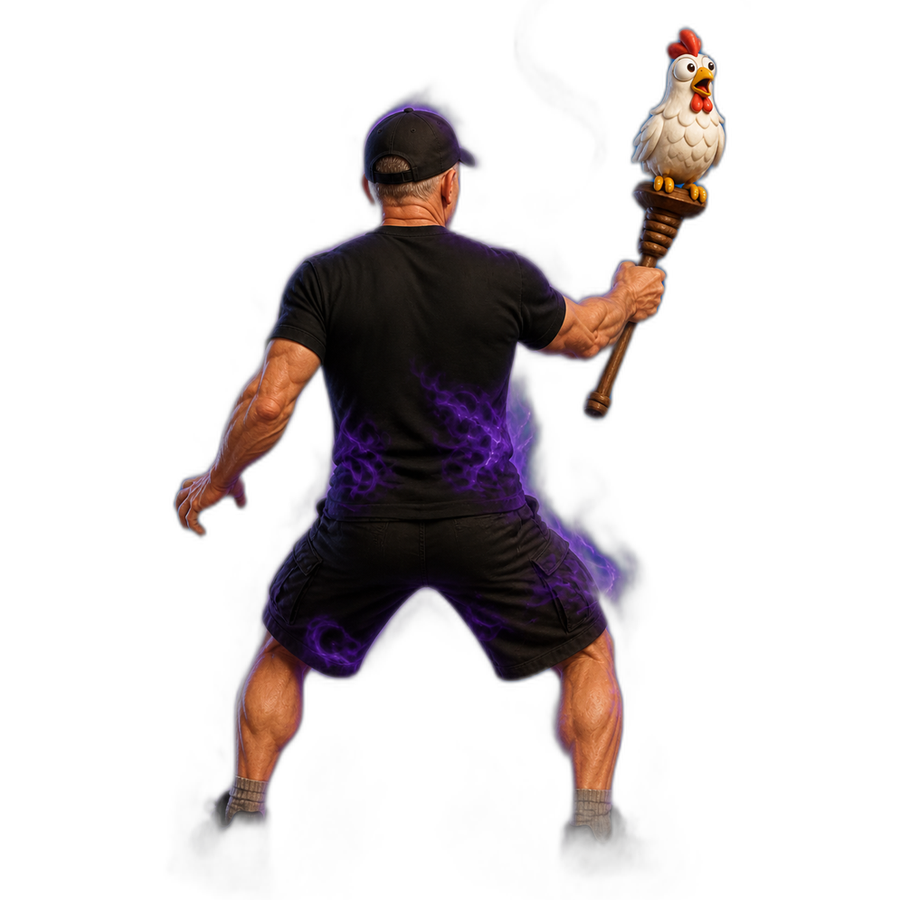
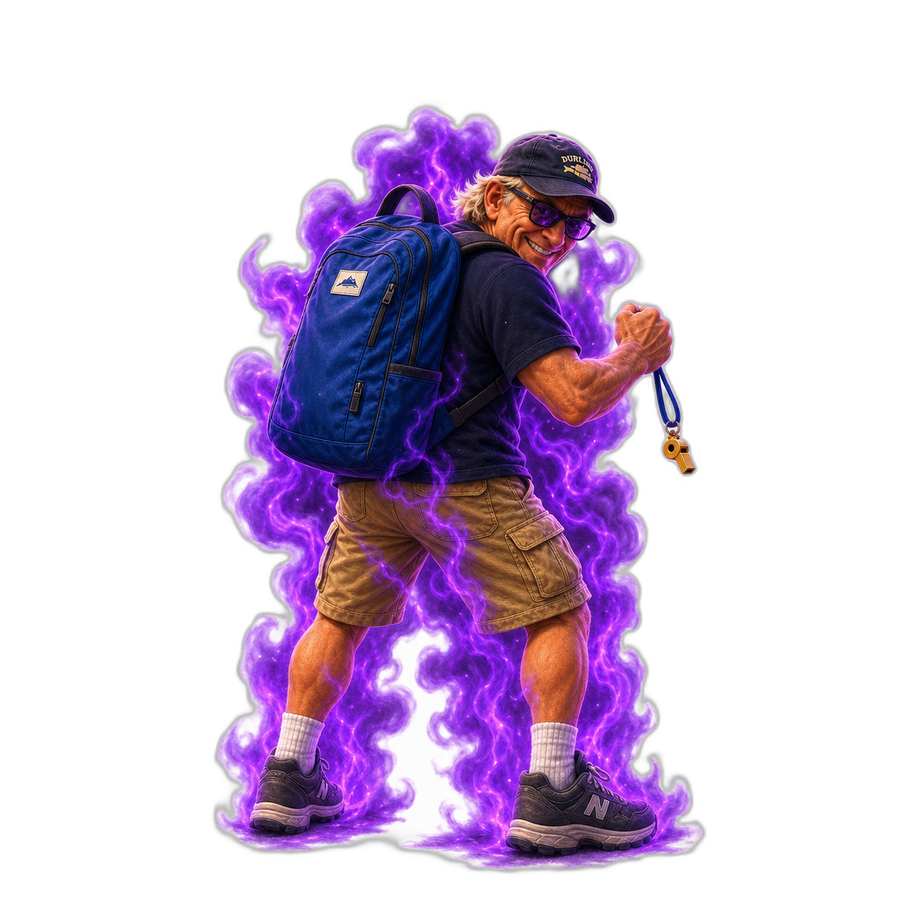
feat(philroyale): update Evil Phil card and battlefield art
New purple-mist crouch photo on shared blue card background; matching
troop front/back for the battlefield.

diff --git a/philroyale/src/characters/EvilPhilModel.tsx b/philroyale/src/characters/EvilPhilModel.tsx
@@ -13,7 +13,7 @@ type Props = {
   portrait?: boolean
 }
 
-/** Evil Phil — Phil kit in black with purple mist and an evil grin. */
+/** Evil Phil — purple-mist coach crouch; sundae + whip overlays. */
 export function EvilPhilModel({ anim, facing, attackId, portrait }: Props) {
   const attack =
     anim === 'attack' && attackId === 'chickenWhip'
@@ -32,12 +32,10 @@ export function EvilPhilModel({ anim, facing, attackId, portrait }: Props) {
         anim={anim}
         facing={facing}
         portrait={portrait}
-        objectPos="50% 22%"
+        objectPos="50% 16%"
         gait="jog"
         attack={attack}
-        spriteLegs
-        legColor="#1a1a22"
-        shoeColor="#0a0a10"
+        spriteLegs={false}
       />
       {/* Soft animated purple mist on top of baked-in aura */}
       <div
